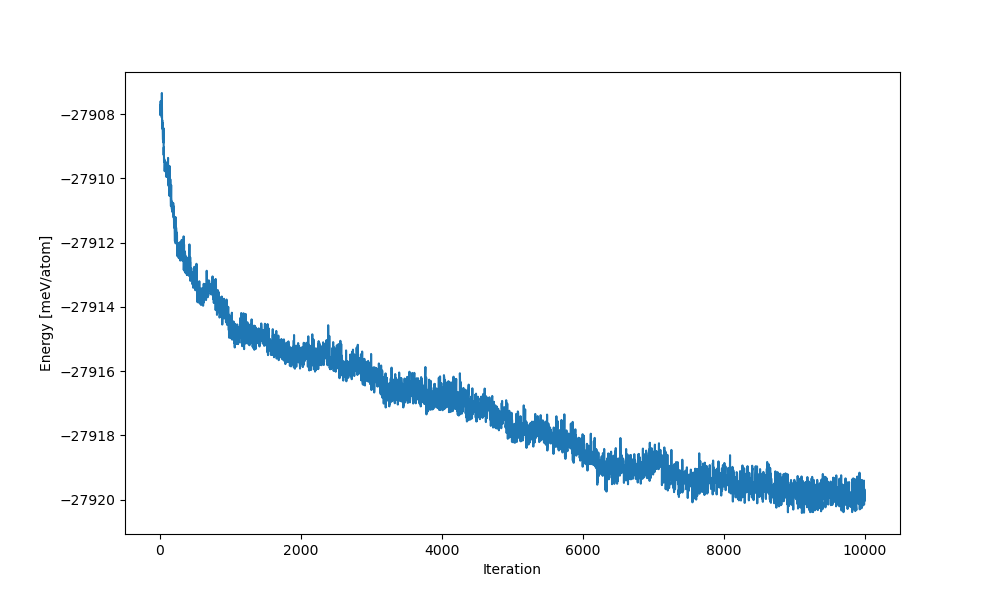
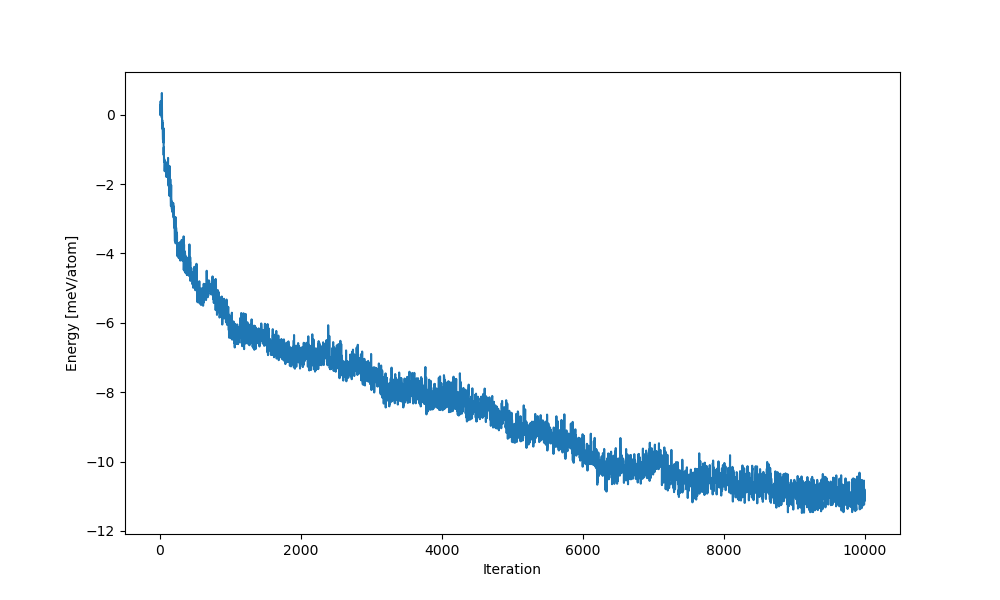
update

diff --git a/examples/PMN_SCAN/6X6X6/02.plot_energy.py b/examples/PMN_SCAN/6X6X6/02.plot_energy.py
@@ -4,11 +4,12 @@ import matplotlib.pyplot as plt
 
 
 # data = np.loadtxt('logs/energy_accepted.csv', skiprows=1, delimiter=',')
+natoms = 6 * 6 * 6 * 5
 mc_log_file = os.path.join('logs', 'mc.log')
 mc_log = np.loadtxt(mc_log_file, skiprows=2, delimiter=',')
 iters = mc_log[:, 0]  ## the iteration index of the accepted trial
 energy = mc_log[:, 2]  ## the energy of the accepted trial
-
+energy = (energy - energy[0]) * 1000 / natoms
 
 fig, ax = plt.subplots(figsize=(10, 6))
 ax.plot(iters, energy)

diff --git a/examples/PMN_SCAN/6X6X6/03.analyze_chemical_order.py b/examples/PMN_SCAN/6X6X6/03.analyze_chemical_order.py
@@ -46,3 +46,7 @@ plt.ylabel(r'$O(\mathbf{s})$')
 plt.xlabel('Iterations')
 plt.tight_layout()
 plt.savefig('order_parameter.png', dpi=300)
+
+## 
+save_data = np.array([iters, global_params])
+np.save('order_parameter.npy', save_data)

diff --git a/README.md b/README.md
@@ -86,7 +86,4 @@ See the full instruction on [GitHub Pages](https://kehan-cai-nanako.github.io/Pe
 
 ## TODO
 
-1. Make Breadth-first search (BFS) a module. 
-2. Logo.
-3. Documentation. 
-4. PMN analyze Pb order parameter.
+- Documentation. 
